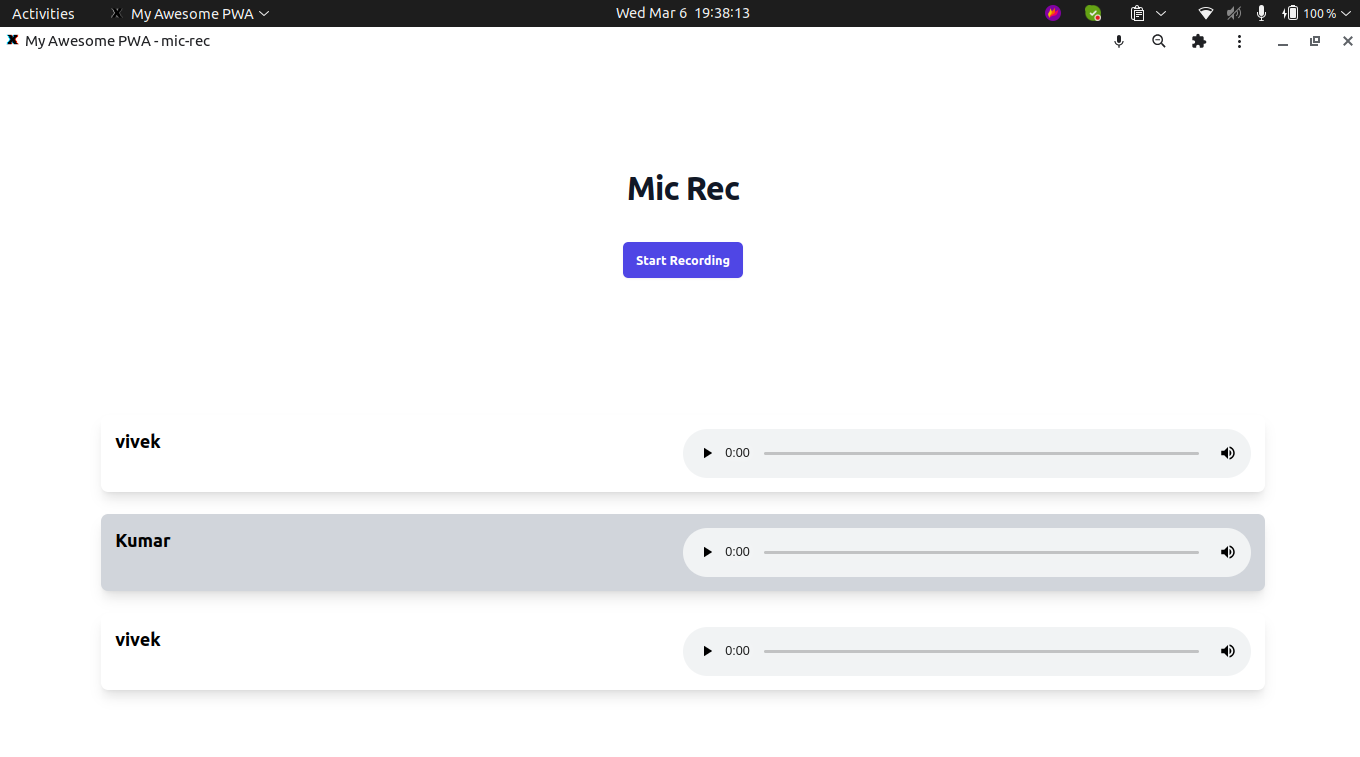
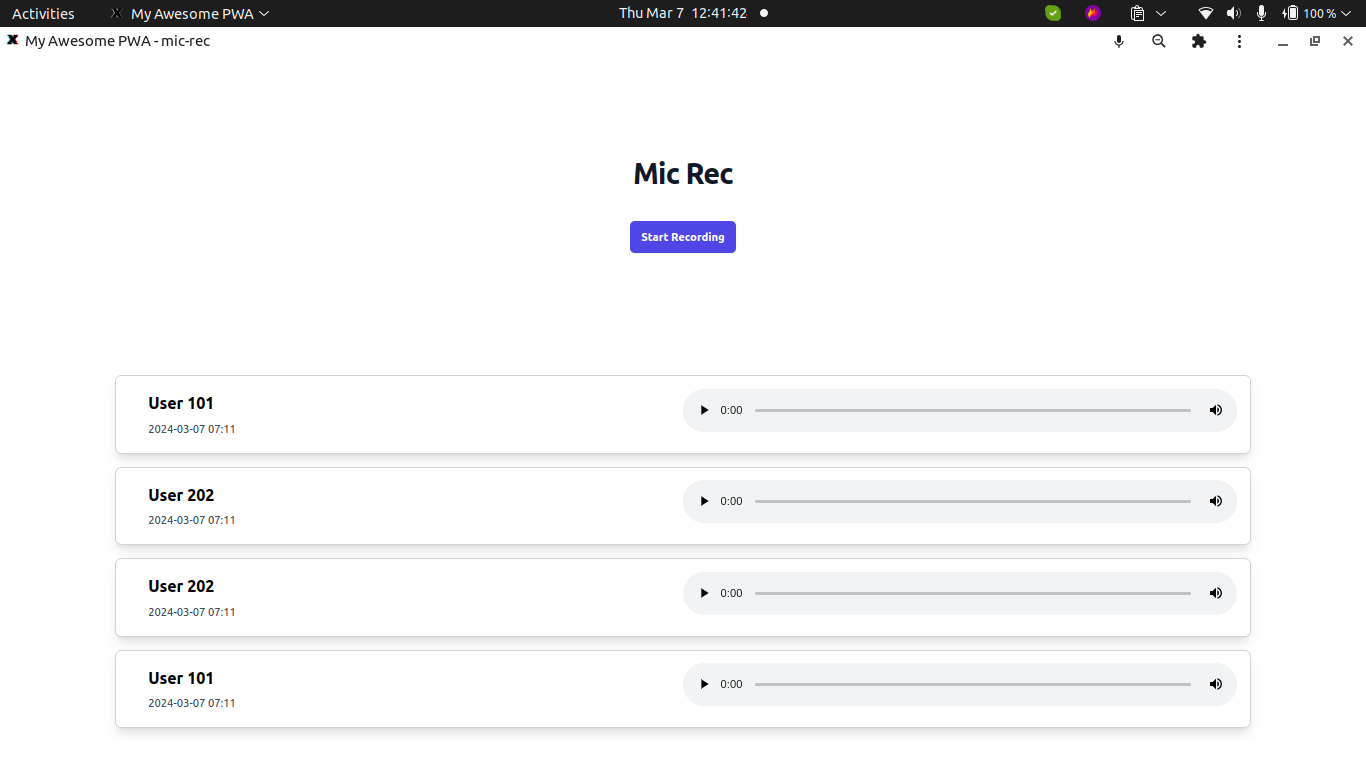
Add dotenv and datetime against each audio msg

diff --git a/pages/index.vue b/pages/index.vue
@@ -16,17 +16,30 @@
       </div>
     </div>
 
-    <div class="mt-6 px-6 overflow-y-auto max-h-screen-80">
+    <div class="mt-6 px-36 overflow-y-auto max-h-screen-80">
       <div
         v-for="(audio, index) in audioSources"
         :key="index"
         class="bg-white rounded-lg shadow-lg p-4 hover:shadow-xl transition duration-300 flex justify-between border border-gray-300 mb-4"
       >
-        <div class="font-bold text-xl">{{ JSON.parse(audio).username }}</div>
+        <div class="max-w-sm overflow-hidden">
+          <div class="px-6 py-1">
+            <div class="font-bold text-xl mb-2">
+              {{ JSON.parse(audio).metadata.username }}
+            </div>
+            <p class="text-gray-700 text-sm">
+              {{ JSON.parse(audio).metadata.timestamp | formatDate }}
+              <span id="current-time" class="font-semibold"></span>
+            </p>
+          </div>
+        </div>
+
         <div
           :class="{
-            'flex justify-end w-1/2': JSON.parse(audio).username === username,
-            'flex justify-start w-1/2': JSON.parse(audio).username !== username,
+            'flex justify-end w-1/2':
+              JSON.parse(audio).metadata.username === username,
+            'flex justify-start w-1/2':
+              JSON.parse(audio).metadata.username !== username,
           }"
         >
           <audio
@@ -43,7 +56,7 @@
 <script>
 import Recorder from "../components/Recorder.vue";
 
-const ws = new WebSocket("ws://localhost:8099");
+const ws = new WebSocket(process.env.WEBSOCKET_URL);
 
 export default {
   components: {
@@ -72,7 +85,11 @@ export default {
   },
   methods: {
     sendAudioData(audioData) {
-      ws.send(JSON.stringify({ username: this.username, audioData }));
+      let metadata = {
+        username: this.username,
+        timestamp: new Date(),
+      };
+      ws.send(JSON.stringify({ metadata: metadata, audioData }));
     },
     promptForUsername() {
       let username = null;
@@ -80,6 +97,15 @@ export default {
         username = prompt("Please enter your username:");
       }
       this.username = username;
+    },
+  },
+  filters: {
+    formatDate(value) {
+      return new Date(value)
+        .toISOString()
+        .replace(/T/, " ")
+        .replace(/\.\d+Z/, "")
+        .slice(0, 16);
     },
   },
 };

diff --git a/nuxt.config.js b/nuxt.config.js
@@ -1,5 +1,4 @@
 export default {
-  // Disable server-side rendering: https://go.nuxtjs.dev/ssr-mode
   ssr: false,
 
   sourcemap: {
@@ -9,7 +8,6 @@ export default {
 
   devtools: { enabled: true },
 
-  // Global page headers: https://go.nuxtjs.dev/config-head
   head: {
     title: "mic-rec",
     htmlAttrs: {
@@ -24,22 +22,14 @@ export default {
     link: [{ rel: "icon", type: "image/x-icon", href: "/favicon.ico" }],
   },
 
-  // Global CSS: https://go.nuxtjs.dev/config-css
   css: [],
 
-  // Plugins to run before rendering page: https://go.nuxtjs.dev/config-plugins
   plugins: [],
 
-  // Auto import components: https://go.nuxtjs.dev/config-components
   components: true,
 
-  // Modules for dev and build (recommended): https://go.nuxtjs.dev/config-modules
-  buildModules: [
-    // https://go.nuxtjs.dev/tailwindcss
-    "@nuxtjs/tailwindcss",
-  ],
+  buildModules: ["@nuxtjs/tailwindcss", "@nuxtjs/dotenv"],
 
-  // Modules: https://go.nuxtjs.dev/config-modules
   modules: ["@nuxtjs/pwa"],
 
   pwa: {
@@ -64,6 +54,5 @@ export default {
     },
   },
 
-  // Build Configuration: https://go.nuxtjs.dev/config-build
   build: {},
 };
